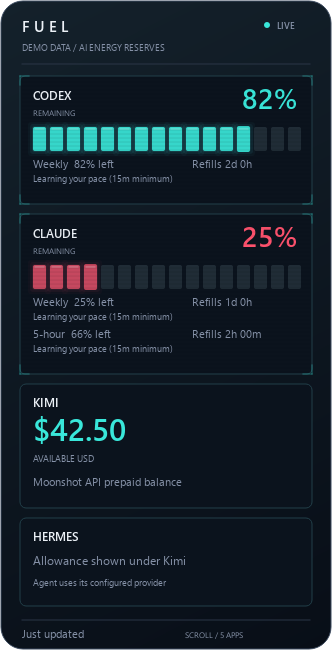
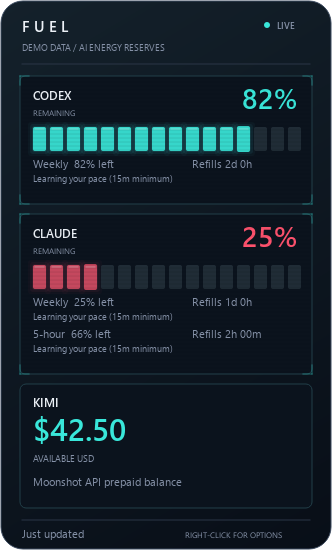
Keep the main panel focused on provider usage, not agent names

diff --git a/widget.py b/widget.py
@@ -137,6 +137,7 @@ class FuelWidget(QWidget):
             if data:
                 self.providers=data
                 for n in data:self.display.setdefault(n,0)
+                self.update_connections()
                 self.set_progress(self.progress)
                 self.start_readers({n:READERS[n] for n,d in data.items() if d['kind']=='meter' and n in READERS and n not in self.updated})
             return
@@ -167,6 +168,8 @@ class FuelWidget(QWidget):
         self.menu=QMenu();self.menu.setStyleSheet('QMenu{background:#151D2B;color:#ECF1F7;border:1px solid #354154;padding:6px;}QMenu::item{padding:8px 18px;}QMenu::item:selected{background:#2B394C;}')
         self.menu.addAction('Refresh usage',self.refresh)
         self.menu.addAction('Move to top-right',self.reanchor)
+        self.connections=self.menu.addMenu('Other detected apps')
+        self.update_connections()
         motion_action=self.menu.addAction('Animate meters');motion_action.setCheckable(True);motion_action.setChecked(self.motion)
         motion_action.toggled.connect(self.set_motion)
         self.menu.addSeparator();self.menu.addAction('Quit (stays off until reopened)',self.quit_intentionally)
@@ -237,8 +240,16 @@ class FuelWidget(QWidget):
         self.motion=enabled;self.tick.setInterval(16 if self.expanded and enabled else 250)
         (STATE/'preferences.json').write_text(json.dumps({'motion':enabled}))
 
+    def update_connections(self):
+        if not hasattr(self,'connections'):return
+        self.connections.clear()
+        for name,descriptor in self.providers.items():
+            if descriptor['kind']=='detected':
+                action=self.connections.addAction(name+' : usage unavailable');action.setEnabled(False)
+        self.connections.setEnabled(bool(self.connections.actions()))
+
     def ordered_names(self):
-        return sorted(self.providers,key=lambda n:({'meter':0,'linked':1,'detected':2}.get(self.providers[n]['kind'],2),list(self.providers).index(n)))
+        return [name for name,descriptor in self.providers.items() if descriptor['kind']=='meter']
 
     def panel_height(self,name):
         data=self.data.get(name,{})
@@ -246,7 +257,7 @@ class FuelWidget(QWidget):
         if data.get('kind') in ('balance','local'):return 124
         return 96+32*max(1,len(data.get('windows',[])))
 
-    def content_height(self):return sum(self.panel_height(n)+10 for n in self.providers)
+    def content_height(self):return sum(self.panel_height(n)+10 for n in self.ordered_names())
 
     def set_scroll(self,value):
         self.scroll=max(0,min(float(value),max(0,self.content_height()-(self.height()-108))))
@@ -315,7 +326,7 @@ class FuelWidget(QWidget):
         age=int(time.time()-min(self.updated.values())) if self.updated else None
         self.text(p,22,footer+18,'Syncing...' if age is None else f'Updated {age//60}m ago' if age>=60 else 'Just updated',8,MUTED)
         more=self.content_height()>self.height()-108
-        self.text(p,185,footer+18,f'SCROLL / {len(self.providers)} APPS' if more else 'RIGHT-CLICK FOR OPTIONS',6,MUTED)
+        self.text(p,185,footer+18,f'SCROLL / {len(self.ordered_names())} METERS' if more else 'RIGHT-CLICK FOR OPTIONS',6,MUTED)
         p.end()
 
 def main():

diff --git a/check_ui.py b/check_ui.py
@@ -30,6 +30,8 @@ app=QApplication([])
 w=widget.FuelWidget()
 w.demo=demo
 if 'providers' in snapshot:w.providers=snapshot['providers']
+assert all(w.providers[n]['kind']=='meter' for n in w.ordered_names())
+assert 'Hermes' not in w.ordered_names()
 for name,feed in snapshot['feeds'].items():
     if feed.get('data'):
         w.data[name]=feed['data'];w.updated[name]=feed['updated'];w.display[name]=widget.effective(feed['data']) or 0

diff --git a/README.md b/README.md
@@ -35,12 +35,12 @@ Discovery runs in a background worker every 90 seconds. Finding an app does not 
 | Kimi / Moonshot API | Prepaid USD balance | Existing `KIMI_API_KEY` or `MOONSHOT_API_KEY` |
 | Kimi Code | Coding-plan windows, experimental adapter | `KIMI_CODE_API_KEY` or a `sk-kimi-` key |
 | OpenRouter | Key spending cap remaining, or uncapped status | `OPENROUTER_API_KEY` |
-| Hermes | Link to its configured provider's meter | `HERMES_HOME/config.yaml` or `~/.hermes/config.yaml` |
+| Hermes | Its underlying provider's usage, with no redundant agent card | `HERMES_HOME/config.yaml` or `~/.hermes/config.yaml` |
 | Ollama | Loaded models and VRAM, no quota percentage | Running local API on port 11434 |
 | LM Studio | Loaded models, no quota percentage | v1 local API on port 1234; optional `LM_API_TOKEN` |
-| Cursor, Gemini, Windsurf, Copilot and other recognised AI apps | Detected status, with usage explicitly unavailable | Known app folders, CLI presence and Windows installed-app names |
+| Cursor, Gemini, Windsurf, Copilot and other recognised AI apps | Listed under Other detected apps in the right-click menu when usage is unavailable | Known app folders, CLI presence and Windows installed-app names |
 
-Known-app discovery also recognises Jan, GPT4All, AnythingLLM, Msty, Chatbox and several API-key environments. Other installed desktop names containing AI, LLM, GPT or Copilot receive an unmetered status card. Browser-only apps, arbitrary portable executables and every future AI app cannot be discovered universally. Add adapters in `providers.py` to turn detected status into real usage. ChatGPT chat allowances are not inferred from the separate Codex meter.
+Known-app discovery also recognises Jan, GPT4All, AnythingLLM, Msty, Chatbox and several API-key environments. Other installed desktop names containing AI, LLM, GPT or Copilot are listed in the menu. The main panel shows only connected provider adapters, not agent names or placeholder app cards. Browser-only apps, arbitrary portable executables and every future AI app cannot be discovered universally. Add adapters in `providers.py` to turn detected status into real usage. ChatGPT chat allowances are not inferred from the separate Codex meter.
 
 Allowlisted provider keys are read from existing process/user environment variables or Hermes' existing `.env`, in memory only. Fuel does not copy keys into its files, inspect browser cookies, or read conversation content. Hermes is linked rather than counted as a second allowance. Changing a Windows user environment variable can be detected without restarting Fuel. Editing a process-only environment requires restarting it.
 
